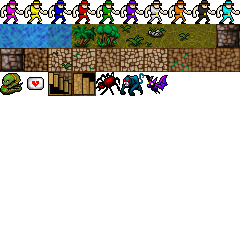
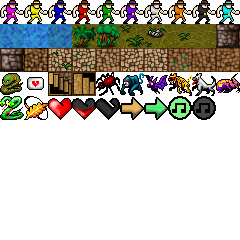
hearts and music

Changed region(s): [[0.0, 0.2917, 1.0, 0.525], [0.525, 0.3208, 0.5833, 0.3792], [0.1167, 0.3792, 0.1458, 0.4083]]

diff --git a/src/worldScene.js b/src/worldScene.js
@@ -112,7 +112,7 @@ export default class WorldScene extends Scene {
     for (let i = 0; i < this.world.hero.bullets; i += 1) {
       this.game.display.draw(10 + i, 26, '⁍', this.game.tiled ? color : null);
     }
-    if (this.mouseX === 78 && this.mouseY === 26) {
+    if (this.mouseX === 50 && this.mouseY === 26) {
       if (this.game.tiled) {
         color = 'rgba(255, 255, 255, 0.25)';
       } else {
@@ -120,7 +120,7 @@ export default class WorldScene extends Scene {
       }
     }
     this.game.display.draw(
-        78,
+        50,
         26,
         this.music.muted ? '🕨' : '🕪',
         this.game.tiled ? color : null, bg,
@@ -145,7 +145,7 @@ export default class WorldScene extends Scene {
       this.update();
       return;
     } else if (event.type === 'mousedown') {
-      if (this.eventX === 78 && this.eventY === 26) {
+      if (this.eventX === 50 && this.eventY === 26) {
         this.music.muted = !this.music.muted;
         this.update();
         return;

diff --git a/src/game.js b/src/game.js
@@ -49,15 +49,15 @@ Game.tileOptions = {
     '˯': [192, 24],
     '‧': [120, 48],
     '+': [24, 72],
-    '⌐': [85, 527],
+    '⌐': [144, 144],
     '⊠': [144, 144],
     '⁍': [144, 144],
     '>': [72, 72],
     '<': [48, 72],
-    '♥': [144, 144],
-    '♡': [144, 144],
-    '🕨': [144, 144],
-    '🕪': [144, 144],
+    '♥': [48, 96],
+    '♡': [96, 96],
+    '🕨': [192, 96],
+    '🕪': [168, 96],
     '➧': [144, 144],
     ':': [144, 144],
     '.': [144, 144],
